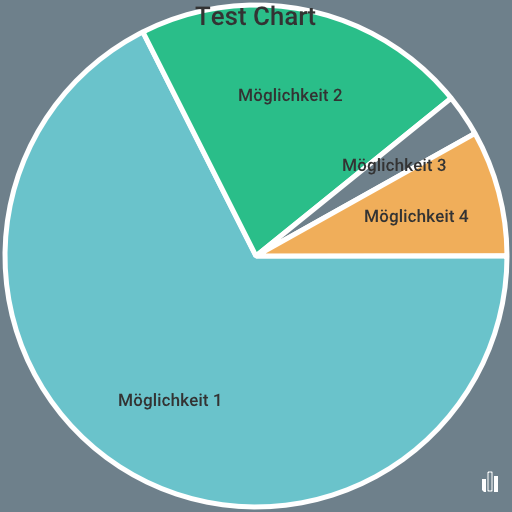
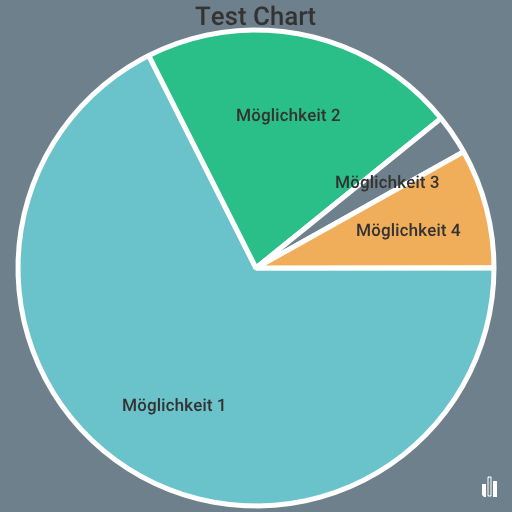
feat: title inset and painting improvements

diff --git a/pkg/piechart/chart.go b/pkg/piechart/chart.go
@@ -3,7 +3,7 @@ package piechart
 import (
 	"bytes"
 	"github.com/getsentry/sentry-go"
-	"github.com/wcharczuk/go-chart"
+	"github.com/niggelgame/go-chart/v2"
 	"go.uber.org/zap"
 )
 
@@ -29,63 +29,38 @@ func (c Config) GetValues() []chart.Value {
 	return arr
 }
 
-func addVotebotLogoRenderable(r chart.Renderer, canvasBox chart.Box, defaults chart.Style) {
-	chart.Draw.Box(r, chart.Box{Top: canvasBox.Height() - 23, Left: canvasBox.Width() - 20, Bottom: canvasBox.Height() - 10, Right: canvasBox.Width() - 16}, chart.Style{FillColor: chart.ColorWhite})
+// Icon Padding 10x10px to the bottom right corner
+func addVotebotLogoRenderable(r chart.Renderer, canvasBox chart.Box, _ chart.Style) {
+	paddingRight := 10
+	paddingBottom := 10
 
-	// Move to function
-	r.SetFillColor(chart.ColorAlternateGray)
-	r.MoveTo(canvasBox.Width()-20, canvasBox.Height()-12)
-	r.LineTo(canvasBox.Width()-18, canvasBox.Height()-10)
-	r.LineTo(canvasBox.Width()-20, canvasBox.Height()-10)
-	r.LineTo(canvasBox.Width()-20, canvasBox.Height()-12)
+	backgroundColor := chart.ColorAlternateGray
+	highlightColor := chart.ColorWhite
+
+	chart.Draw.Box(r, chart.Box{Top: canvasBox.Bottom - (13 + paddingBottom), Left: canvasBox.Right - (15 + paddingRight), Bottom: canvasBox.Bottom - paddingBottom, Right: canvasBox.Right - (11 + paddingRight)}, chart.Style{FillColor: highlightColor})
+
+	// 2x2px corner cutout in first bar
+	r.SetFillColor(backgroundColor)
+	r.MoveTo(canvasBox.Right-(15+paddingRight), canvasBox.Bottom-(2+paddingBottom))
+	r.LineTo(canvasBox.Right-(13+paddingRight), canvasBox.Bottom-paddingBottom)
+	r.LineTo(canvasBox.Right-(15+paddingRight), canvasBox.Bottom-paddingBottom)
+	r.LineTo(canvasBox.Right-(15+paddingRight), canvasBox.Bottom-(2+paddingBottom))
 	r.FillStroke()
 
-	chart.Draw.Box(r, chart.Box{Top: canvasBox.Height() - 30, Left: canvasBox.Width() - 14, Bottom: canvasBox.Height() - 11, Right: canvasBox.Width() - 10}, chart.Style{FillColor: chart.ColorAlternateGray, StrokeColor: chart.ColorWhite, StrokeWidth: 1})
-	chart.Draw.Box(r, chart.Box{Top: canvasBox.Height() - 26, Left: canvasBox.Width() - 8, Bottom: canvasBox.Height() - 10, Right: canvasBox.Width() - 4}, chart.Style{FillColor: chart.ColorWhite})
+	// Add one pixel padding at bottom for outlined form
+	chart.Draw.Box(r, chart.Box{Top: canvasBox.Bottom - (20 + paddingBottom), Left: canvasBox.Right - (9 + paddingRight), Bottom: canvasBox.Bottom - (paddingBottom + 1), Right: canvasBox.Right - (6 + paddingRight)}, chart.Style{FillColor: backgroundColor, StrokeColor: highlightColor, StrokeWidth: 1})
+
+	chart.Draw.Box(r, chart.Box{Top: canvasBox.Bottom - (16 + paddingBottom), Left: canvasBox.Right - (4 + paddingRight), Bottom: canvasBox.Bottom - paddingBottom, Right: canvasBox.Right - paddingRight}, chart.Style{FillColor: highlightColor})
 }
-
-/*drawTriangle(
-	r,
-	Point{
-		x: canvasBox.Width() - 20,
-		y: canvasBox.Height() - 19,
-	}, Point{
-		x: canvasBox.Width() - 16,
-		y: canvasBox.Height() - 10,
-	}, Point{
-		x: canvasBox.Width() - 20,
-		y: canvasBox.Height() - 10,
-	},
-	chart.ColorGreen,
-	canvasBox,
-)*/
-
-/*type Point struct {
-	x int
-	y int
-}
-
-func drawTriangle(r chart.Renderer, p1, p2, p3 Point, color drawing.Color, canvasBox chart.Box) {
-	r.SetFillColor(color)
-
-	defer r.ResetStyle()
-
-	r.MoveTo(p1.x, p1.y)
-	r.LineTo(p2.x, p2.y)
-	r.LineTo(p3.x, p3.x)
-	r.LineTo(p1.x, p1.y)
-	r.FillStroke()
-
-
-}*/
 
 func CreateChart(cfg Config) []byte {
 	pie := chart.PieChart{
-		Title:  cfg.Title,
-		TitleStyle: chart.Style{Show: true},
-		Width:  cfg.Width,
-		Height: cfg.Height,
-		Values: cfg.GetValues(),
+		Title:           cfg.Title,
+		TitleStyle:      chart.Style{Hidden: false},
+		TitleInsetChart: true,
+		Width:           cfg.Width,
+		Height:          cfg.Height,
+		Values:          cfg.GetValues(),
 		Elements: []chart.Renderable{
 			addVotebotLogoRenderable,
 		},
@@ -100,16 +75,6 @@ func CreateChart(cfg Config) []byte {
 		sentry.CaptureException(err)
 		return nil
 	}
-
-	/*	var imageBuffer []byte
-		_, err = collector.Write(imageBuffer)
-
-		// image, err := collector.Image()
-		if err != nil {
-			zap.L().Error("could not create pie chart image", zap.Error(err))
-			sentry.CaptureException(err)
-			return nil
-		}*/
 
 	return imageBuffer.Bytes()
 }
